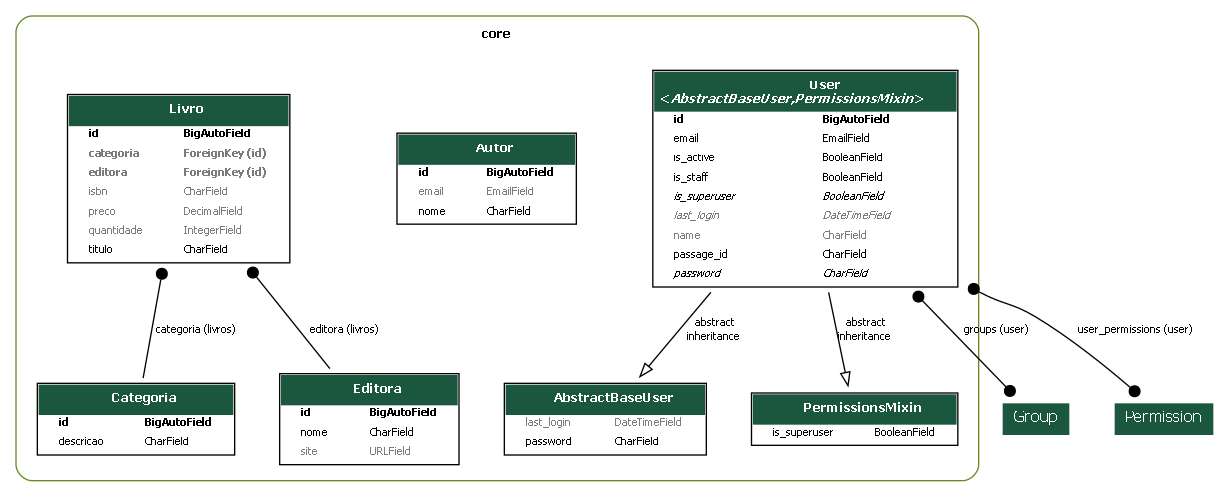
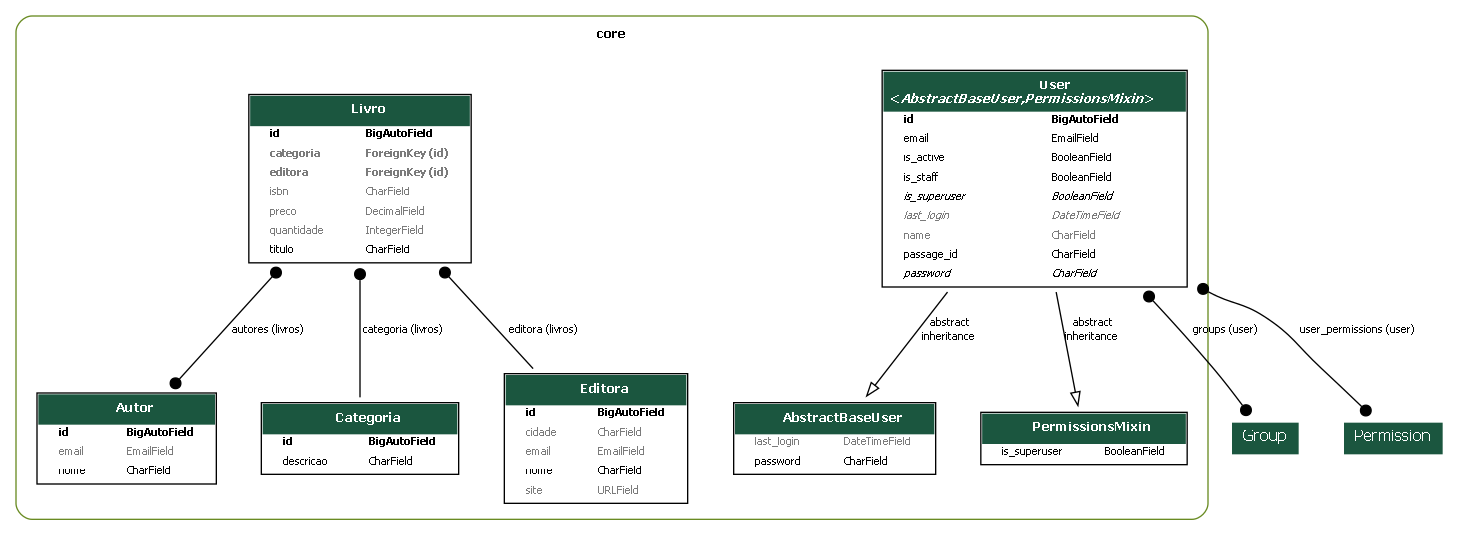
feat: inclusão do relacionamento n para n entre Livro e Autor

diff --git a/core/migrations/0012_editora_cidade_editora_email.py b/core/migrations/0012_editora_cidade_editora_email.py
@@ -1,0 +1,23 @@
+# Generated by Django 5.1.7 on 2025-05-18 04:59
+
+from django.db import migrations, models
+
+
+class Migration(migrations.Migration):
+
+    dependencies = [
+        ('core', '0011_livro_autores'),
+    ]
+
+    operations = [
+        migrations.AddField(
+            model_name='editora',
+            name='cidade',
+            field=models.CharField(blank=True, max_length=100, null=True),
+        ),
+        migrations.AddField(
+            model_name='editora',
+            name='email',
+            field=models.EmailField(blank=True, max_length=100, null=True),
+        ),
+    ]

diff --git a/core/models/livro.py b/core/models/livro.py
@@ -1,6 +1,7 @@
 from django.db import models
 from .categoria import Categoria
 from .editora import Editora
+from .autor import Autor
 
 class Livro(models.Model):
     titulo = models.CharField(max_length=255)
@@ -13,6 +14,9 @@ class Livro(models.Model):
     )
     editora = models.ForeignKey(
         Editora, on_delete=models.PROTECT, related_name="livros", null=True, blank=True
+    )
+    autores = models.ManyToManyField(
+        Autor, related_name="livros", blank=True
     )
 
     def __str__(self):

diff --git a/core/migrations/0011_livro_autores.py b/core/migrations/0011_livro_autores.py
@@ -1,0 +1,18 @@
+# Generated by Django 5.1.7 on 2025-05-18 04:54
+
+from django.db import migrations, models
+
+
+class Migration(migrations.Migration):
+
+    dependencies = [
+        ('core', '0010_livro_categoria_livro_editora'),
+    ]
+
+    operations = [
+        migrations.AddField(
+            model_name='livro',
+            name='autores',
+            field=models.ManyToManyField(blank=True, related_name='livros', to='core.autor'),
+        ),
+    ]

diff --git a/core/models/editora.py b/core/models/editora.py
@@ -3,6 +3,8 @@ from django.db import models
 class Editora(models.Model):
     nome = models.CharField(max_length=100)
     site = models.URLField(max_length=200, blank=True, null=True)
+    cidade = models.CharField(max_length=100, blank=True, null=True)
+    email = models.EmailField(max_length=100, blank=True, null=True)
 
     def __str__(self):
         return self.nome
